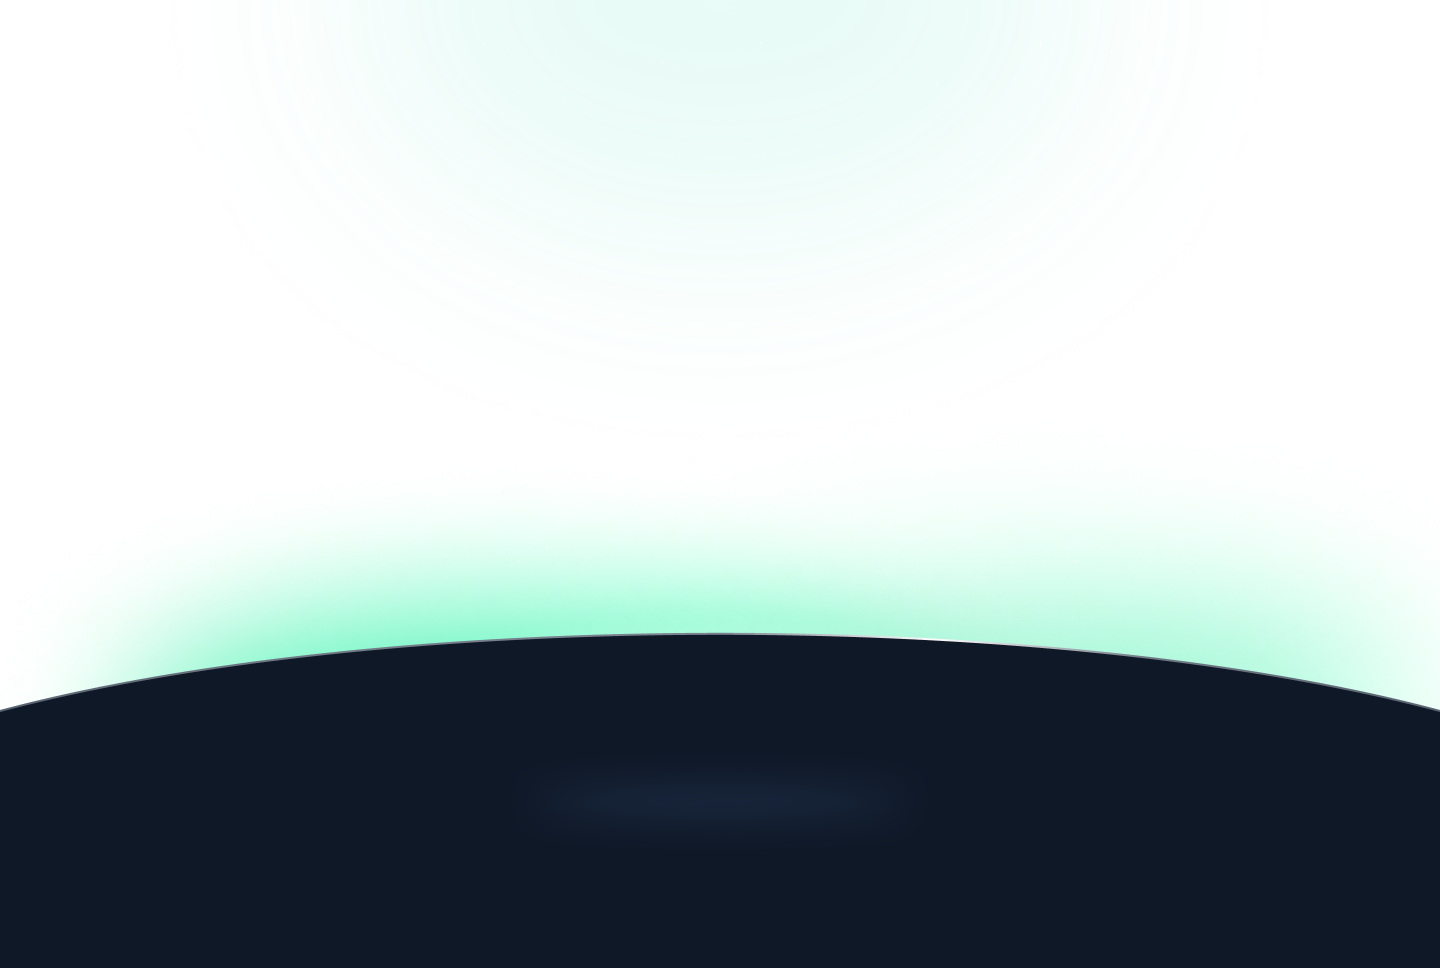
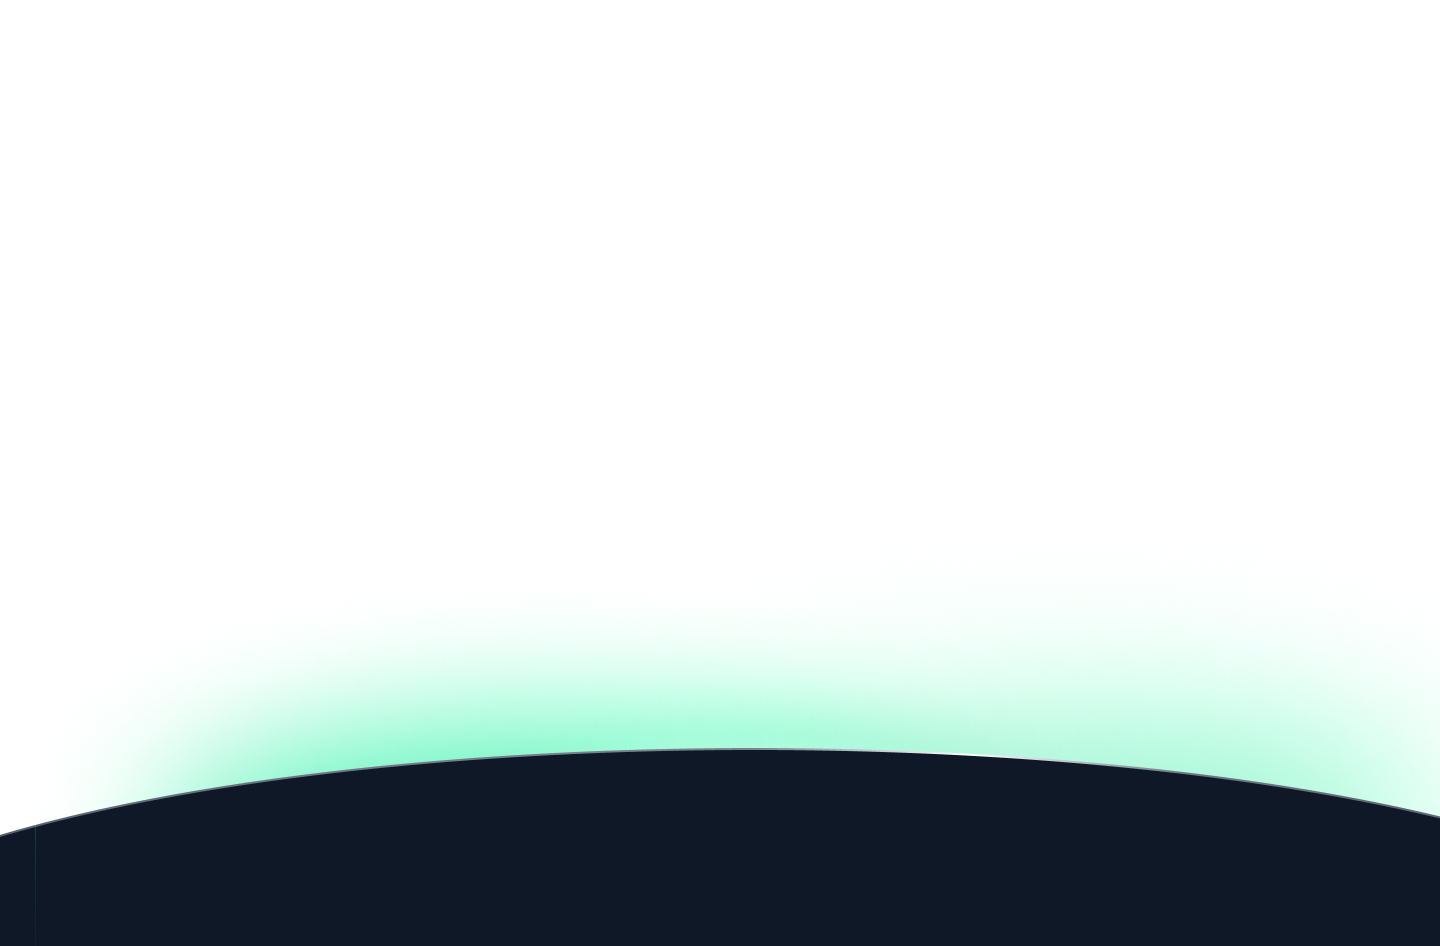
updated home page

Changed region(s): [[0.0, 0.5518, 1.0, 0.889]]

diff --git a/src/components/HomeFirst.jsx b/src/components/HomeFirst.jsx
@@ -1,6 +1,6 @@
 import React from "react";
 import ButtonIcon from "@assets/icons/ButtonIcon.svg";
-import LeftBlock from "@assets/icons/LeftBlock.svg";
+import LeftBlock from "@assets/images/LeftBlock.png";
 import RightBlock from "@assets/icons/RightBlock.svg";
 import TrustPilot from "@assets/icons/TrustPilot.svg";
 import Match from "@assets/icons/Match.svg";
@@ -24,53 +24,57 @@ const HomeFirst = () => {
   ];
 
   return (
-    <div
-      className="px-4 lg:px-20 text-center py-5  md:py-10 flex flex-col items-center justify-center"
-      // style={{
-      //   backgroundImage: `url(${BgImage})`,
-      // }}
-    >
-      <button className="flex items-center gap-1 gradient-div">
-        <img src={ButtonIcon} alt="Icon" />
-        Intelligent Solutions, Infinite Possibilities
-      </button>
+    <>
+      <div className="text-center py-5  md:py-10 flex flex-col items-center justify-center">
+        <button className="flex items-center gap-1 gradient-div">
+          <img src={ButtonIcon} alt="Icon" />
+          Intelligent Solutions, Infinite Possibilities
+        </button>
 
-      <div className="text-[36px] text-white lg:text-[64px] leading-[48px] lg:leading-[96px]  font-poppins font-extralight">
-        Simplifying <span className="font-bold">Cryptocurrency</span> for
-        Everyone with <span className="font-bold">Innovative.</span>
-      </div>
-      <div className="flex flex-col xl:flex-row justify-between items-center gap-8 xl:gap-12">
-        <img src={LeftBlock} alt="Left Block" />
-        <div className="flex flex-col items-center">
-          <div className=" text-white text-[20px] font-poppins font-normal">
-            Our platform makes crypto investments simple and accessible for all
-            users.
-          </div>
-          <div className="flex flex-col md:flex-row mt-9 items-center text-white gap-5 md:gap-16 font-poppins text-sm md:text-lg font-normal ">
-            <img src={TrustPilot} alt="TrustPilot" />
-            <div className="flex items-start md:items-center gap-x-2">
-              <div>Listed on</div>
-              <img src={Match} alt="Match" />
-              <div>Propfirmmatch.com</div>
-            </div>
-          </div>
-
-          <button className="bg-gradient-to-r from-[#00fc9e] to-[#1c7ef0] flex flex-row mt-8 gap-x-3 items-center text-[#141414]  font-outfit text-[20px] px-8 py-3 rounded-full shadow-lg font-normal hover:opacity-90 transition">
-            Start Challenge
-            <img src={BlackArrowRight} alt="Arrow" />
-          </button>
+        <div className="text-[36px] xl:w-3/4 2xl:w-[80%] text-white lg:text-[64px] leading-[48px] lg:leading-[96px]  font-poppins font-extralight">
+          Simplifying{" "}
+          <span className="font-bold bg-gradient-to-r from-[#00fc9e] to-[#1c7ef0] bg-clip-text  text-transparent">
+            Cryptocurrency
+          </span>{" "}
+          for Everyone with{" "}
+          <span className="font-bold bg-gradient-to-r from-[#00fc9e] to-[#1c7ef0] bg-clip-text  text-transparent">
+            Innovative.
+          </span>
         </div>
-        <img src={RightBlock} alt="Right Block" />
-      </div>
+        <div className="flex flex-col xl:flex-row justify-between items-center gap-8 xl:gap-12">
+          <img src={LeftBlock} className="w-60 h-60" alt="Left Block" />
+          <div className="flex flex-col items-center">
+            <div className=" text-white text-[20px] font-poppins font-normal">
+              Our platform makes crypto investments simple and accessible for
+              all users.
+            </div>
+            <div className="flex flex-col md:flex-row mt-8 items-center text-white gap-5 md:gap-16 font-poppins text-sm md:text-lg font-normal ">
+              <img src={TrustPilot} alt="TrustPilot" />
+              <div className="flex items-start md:items-center gap-x-2">
+                <div>Listed on</div>
+                <img src={Match} alt="Match" />
+                <div>Propfirmmatch.com</div>
+              </div>
+            </div>
 
-      <div className="flex flex-col md:flex-row items-center pt-32 xl:pb-12 justify-center gap-12 xl:gap-20 ">
-        {homeIcons.map((icon, index) => (
-          <div key={index} className="flex items-center justify-center">
-            <img src={icon.src} alt={icon.alt} />
+            <button className="bg-gradient-to-r from-[#00fc9e] to-[#1c7ef0] flex flex-row mt-8 gap-x-3 items-center text-[#141414]  font-outfit text-[20px] px-8 py-3 rounded-full shadow-lg font-normal hover:opacity-90 transition">
+              Start Challenge
+              <img src={BlackArrowRight} alt="Arrow" />
+            </button>
           </div>
-        ))}
+          <img src={RightBlock} alt="Right Block" />
+        </div>
+
+        <img src={BgImage} className="w-full" />
+        <div className="flex flex-col md:flex-row items-center justify-center gap-12 xl:gap-20 ">
+          {homeIcons.map((icon, index) => (
+            <div key={index} className="flex items-center justify-center">
+              <img src={icon.src} alt={icon.alt} />
+            </div>
+          ))}
+        </div>
       </div>
-    </div>
+    </>
   );
 };
 

diff --git a/src/components/LayoutLanding/LayoutLanding.jsx b/src/components/LayoutLanding/LayoutLanding.jsx
@@ -1,20 +1,22 @@
 import Header from "@components/LayoutLanding/Header";
 import Footer from "@components/LayoutLanding/Footer";
 import React from "react";
-import BgImage from "@assets/images/BgImage.png";
+import BgStar from "@assets/images/BgStar.png";
 
 const LayoutLanding = ({ children }) => {
   return (
-    <div
-      className="bg-[#0f1827]"
-      style={{
-        backgroundImage: `url(${BgImage})`,
-      }}
-    >
-      <Header />
-      {children}
-      <Footer />
-    </div>
+    <>
+      <div
+        className="bg-[#0f1827] bg-no-repeat"
+        style={{
+          backgroundImage: `url(${BgStar})`,
+        }}
+      >
+        <Header />
+        {children}
+        <Footer />
+      </div>
+    </>
   );
 };
 

diff --git a/src/pages/Home.jsx b/src/pages/Home.jsx
@@ -6,6 +6,7 @@ import WithDrawalSection from "../components/WithDrawalSection";
 import Acc from "@assets/icons/Acc.svg";
 import ProveTrade from "@assets/icons/ProveTrade.svg";
 import EarnMoney from "@assets/icons/EarnMoney.svg";
+import BgImage from "@assets/images/BgImage.png";
 import Profit from "@assets/icons/WithDraw.svg";
 import Pro from "@assets/icons/Pro.svg";
 import ChallengeBg from "@assets/images/ChallengeBg.png";
@@ -104,7 +105,7 @@ const Home = () => {
   }, []);
 
   return (
-    <div className="">
+    <div>
       <HomeFirst />
       <div className=" px-4 md:px-12 py-5 md:py-10" data-aos="fade-up">
         <TextMain
